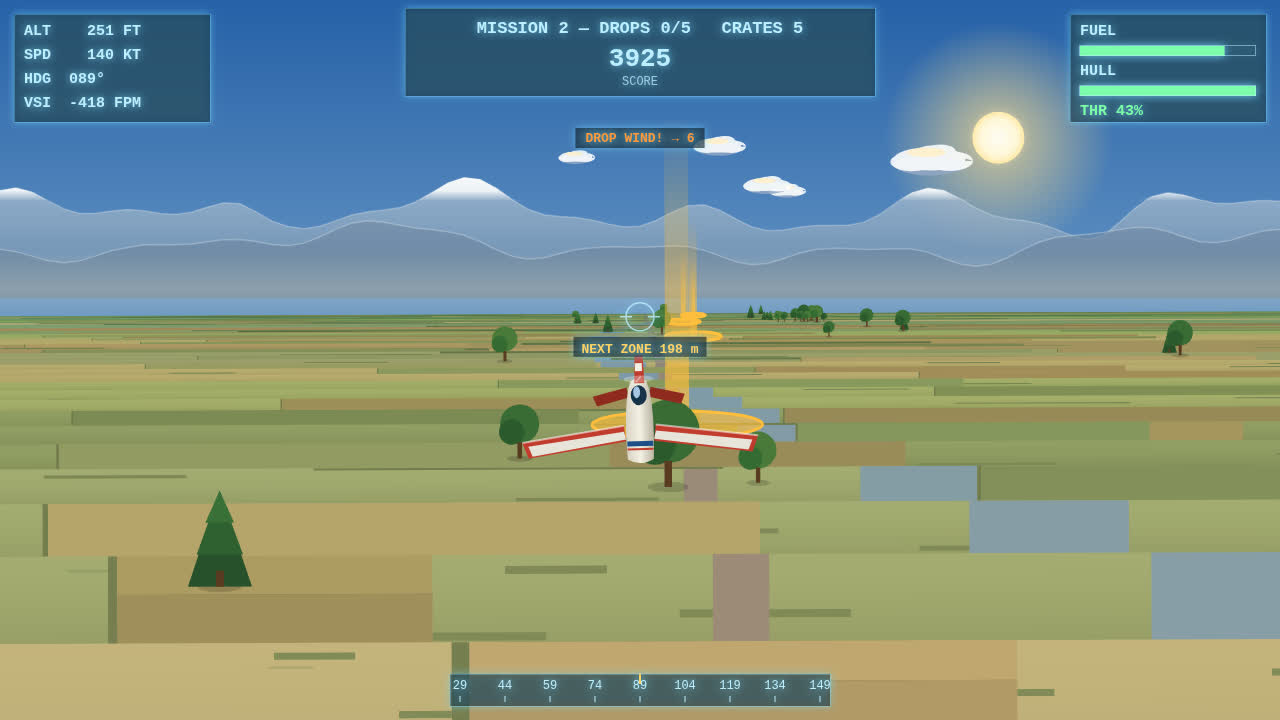
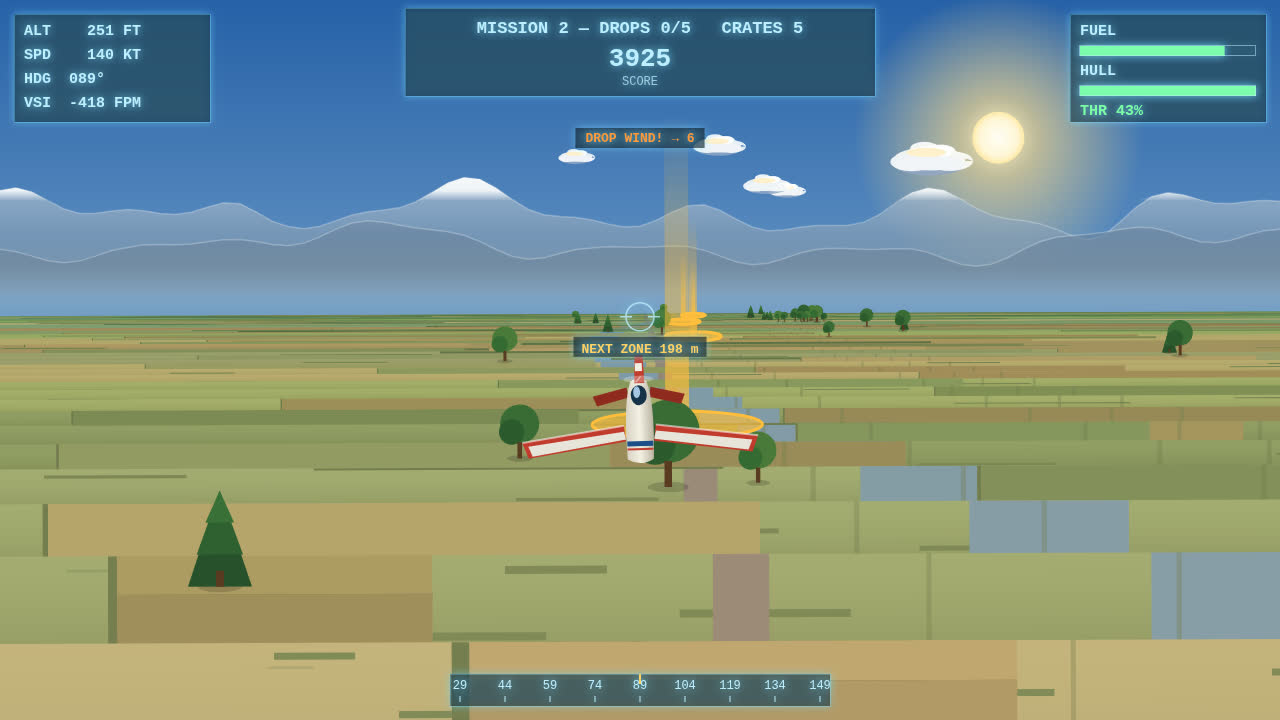
Sky Courier round 11: horizon melts instead of striping, field boundaries break the foreground slabs, domed clouds, stronger sun, bigger wingman
- Mountains fade to transparent at the base (was a hard horizontal edge
  at horizonY+2) and the haze veil is wider/softer (peak 0.28 -> 0.20):
  the pale stripe across every day shot now reads as atmosphere.
- Field-boundary hedgerows run ALONG the track in world space (x -110/
  -70/10/45/75), converging with perspective — the first vertical
  structure after ten rounds of horizontal texture. Drawn after the
  patchwork so the fields don't cover them (first version drew them
  before and the 2x crop showed only faint verticals); verified with
  2x crops of the play/drop foregrounds.
- Clouds get a second dome puff on top plus a stronger warm top edge.
- Sun glow radius 115 -> 145 (130 -> 155 dusk), mid-stop alpha up.
- Wingman 0.36 -> 0.42 scale, d 100 -> 88 m: reads as a plane in
  formation now, not a red cross.
Render-only; staged playtests unchanged 7551-7976 across 20 seeds.

Changed region(s): [[0.6562, 0.0, 0.875, 0.3361]]

diff --git a/game/src/render.js b/game/src/render.js
@@ -74,14 +74,16 @@ export function createRenderer(canvas) {
     ctx.fillStyle = g;
     ctx.fillRect(0, 0, w, h);
     // Sun with a soft glow, upper right — lower and warmer at dusk.
+    // Bigger and warmer than round 7's: the old glow was so subtle the
+    // disc still read as a flat pale sticker on the sky.
     const sx = w * 0.78;
     const sy = horizonY - h * (dusk ? 0.09 : 0.22);
-    const glow = ctx.createRadialGradient(sx, sy, 4, sx, sy, dusk ? 130 : 115);
+    const glow = ctx.createRadialGradient(sx, sy, 4, sx, sy, dusk ? 155 : 145);
     glow.addColorStop(0, dusk ? 'rgba(255,214,150,0.95)' : 'rgba(255,244,200,0.95)');
-    glow.addColorStop(0.25, dusk ? 'rgba(255,170,90,0.6)' : 'rgba(255,220,140,0.55)');
+    glow.addColorStop(0.25, dusk ? 'rgba(255,170,90,0.68)' : 'rgba(255,220,140,0.65)');
     glow.addColorStop(1, dusk ? 'rgba(255,170,90,0)' : 'rgba(255,220,140,0)');
     ctx.fillStyle = glow;
-    ctx.fillRect(sx - 135, sy - 135, 270, 270);
+    ctx.fillRect(sx - 160, sy - 160, 320, 320);
     // The disc itself is a radial gradient, bright in the middle and
     // warm at the rim — a flat disc read as a pale sticker on the sky.
     const disc = ctx.createRadialGradient(sx, sy, 2, sx, sy, dusk ? 28 : 26);
@@ -114,24 +116,30 @@ export function createRenderer(canvas) {
     // A vertical gradient (light crest, darker base) gives the range
     // volume instead of one flat fill.
     const mg = ctx.createLinearGradient(0, horizonY - 120, 0, horizonY + 2);
+    // The ridge base fades to transparent instead of ending in a hard
+    // horizontal line at horizonY+2: the old solid base plus the haze
+    // veil read as one flat pale stripe across the whole frame at the
+    // horizon (visible in every day shot). Now the range melts into
+    // the atmosphere instead of sitting on a ledge.
+    const fade = (c) => `rgba(${c[0]},${c[1]},${c[2]},0)`;
     if (dusk) {
-      // At dusk the ridge is a dark silhouette against the orange
-      // horizon, not a pale blue wave: the day-lit colours wash out
-      // against the violet sky (the land shot's ridge read as a pale
-      // curtain, not mountains).
       if (layer === 0) {
         mg.addColorStop(0, 'rgba(108,96,150,0.85)');
-        mg.addColorStop(1, 'rgba(74,64,116,0.7)');
+        mg.addColorStop(0.75, 'rgba(74,64,116,0.7)');
+        mg.addColorStop(1, fade([74, 64, 116]));
       } else {
         mg.addColorStop(0, 'rgba(88,78,128,0.8)');
-        mg.addColorStop(1, 'rgba(62,54,100,0.68)');
+        mg.addColorStop(0.75, 'rgba(62,54,100,0.68)');
+        mg.addColorStop(1, fade([62, 54, 100]));
       }
     } else if (layer === 0) {
       mg.addColorStop(0, 'rgba(172,192,214,0.8)');
-      mg.addColorStop(1, 'rgba(110,136,162,0.62)');
+      mg.addColorStop(0.75, 'rgba(110,136,162,0.62)');
+      mg.addColorStop(1, fade([110, 136, 162]));
     } else {
       mg.addColorStop(0, 'rgba(126,150,176,0.72)');
-      mg.addColorStop(1, 'rgba(96,122,150,0.6)');
+      mg.addColorStop(0.75, 'rgba(96,122,150,0.6)');
+      mg.addColorStop(1, fade([96, 122, 150]));
     }
     ctx.fillStyle = mg;
     // Sample the ridge first so snow caps can sit on its peaks.
@@ -206,12 +214,16 @@ export function createRenderer(canvas) {
   function drawHaze(w, horizonY) {
     // A soft pale veil straddling the horizon: it melts the hard line
     // where flat ground meets sky and gives the far world atmosphere.
-    const g = ctx.createLinearGradient(0, horizonY - 46, 0, horizonY + 26);
+    // Wider and softer than round 3's: the old 72 px veil with a 0.28
+    // peak read as its own pale stripe across the frame (every day
+    // shot showed a flat band at the horizon). A broader, gentler
+    // veil melts instead of striping.
+    const g = ctx.createLinearGradient(0, horizonY - 60, 0, horizonY + 40);
     g.addColorStop(0, 'rgba(246,232,200,0)');
-    g.addColorStop(0.55, 'rgba(246,232,200,0.28)');
+    g.addColorStop(0.55, 'rgba(246,232,200,0.2)');
     g.addColorStop(1, 'rgba(246,232,200,0)');
     ctx.fillStyle = g;
-    ctx.fillRect(0, horizonY - 46, w, 72);
+    ctx.fillRect(0, horizonY - 60, w, 100);
   }
 
   function drawClouds(w, horizonY, camZ, camX, clouds, camDepth) {
@@ -242,8 +254,16 @@ export function createRenderer(canvas) {
       ctx.ellipse(sx + s * 0.1, sy - s * 0.14, s * 0.55, s * 0.24, 0, 0, Math.PI * 2);
       ctx.ellipse(sx + s * 0.3, sy - s * 0.2, s * 0.42, s * 0.2, 0, 0, Math.PI * 2);
       ctx.fill();
+      // A second dome stacked on top: the old single dome plus shaded
+      // base read as one flat white ellipse from most angles — a puff
+      // needs a bump on top to read as a volume.
+      ctx.fillStyle = 'rgba(255,255,255,0.9)';
+      ctx.beginPath();
+      ctx.ellipse(sx - s * 0.15, sy - s * 0.28, s * 0.4, s * 0.2, 0, 0, Math.PI * 2);
+      ctx.ellipse(sx + s * 0.35, sy - s * 0.22, s * 0.3, s * 0.16, 0, 0, Math.PI * 2);
+      ctx.fill();
       // Warm sunlit top edge, so the lit side reads.
-      ctx.fillStyle = 'rgba(255,238,200,0.85)';
+      ctx.fillStyle = 'rgba(255,238,200,0.9)';
       ctx.beginPath();
       ctx.ellipse(sx - s * 0.1, sy - s * 0.18, s * 0.55, s * 0.13, 0, 0, Math.PI * 2);
       ctx.fill();
@@ -559,7 +579,7 @@ export function createRenderer(canvas) {
     const fadeOut = clamp((WINGMAN_Z1 - z) / 300, 0, 1);
     const peel = clamp((z - 1900) / 300, 0, 1);
     return {
-      d: 100, // metres ahead of the camera, in formation — close enough
+      d: 88, // metres ahead of the camera, in formation — close enough
       // to read as a formation partner, not a speck at the frame edge
       x: state.x + 50 + peel * 130,
       alt: state.alt + 12 - peel * 40,
@@ -723,6 +743,27 @@ export function createRenderer(canvas) {
             // Hedgerow along the patch's left edge.
             ctx.fillStyle = mix3([42, 82, 46], SKY_HORIZON, haze * 0.7);
             ctx.fillRect(px, topY, Math.max(1, bandH * 0.1), bandH);
+          }
+        }
+        // Field boundaries running ALONG the track, drawn AFTER the
+        // patchwork so they read over the fields, not under them: ten
+        // rounds of horizontal texture (furrows, speckle, patchwork,
+        // splits) dressed the bands, but every mark ran across the
+        // frame, so the foreground still read as stacked horizontal
+        // slabs. These hedgerows are fixed in world space, so they
+        // converge with perspective — vertical structure that breaks
+        // the slabs and gives the near ground a sense of depth. The
+        // first version drew them before the patchwork and the patches
+        // covered them; the 2x crop showed only faint verticals.
+        if (!onRunway && !crossRoad) {
+          for (const bx of [-110, -70, 10, 45, 75]) {
+            const hx2 = w / 2 + (camDepth * (bx - camX)) / d;
+            const hw = Math.min(5, Math.max(1.5, (camDepth * 1.5) / d));
+            if (hx2 + hw < -20 || hx2 - hw > w + 20) continue;
+            ctx.fillStyle = mix3([42, 82, 46], SKY_HORIZON, haze * 0.7);
+            ctx.globalAlpha = 0.35;
+            ctx.fillRect(hx2 - hw / 2, topY, hw, bandH);
+            ctx.globalAlpha = 1;
           }
         }
         // Airfield grass: mowing stripes in world space — every other
@@ -1235,9 +1276,9 @@ export function createRenderer(canvas) {
         ctx.globalAlpha = wm.alpha;
         ctx.translate(sx, sy);
         ctx.rotate(wm.roll);
-        // A touch bigger than round 7: at 0.3 she read as a red cross,
-        // not a plane, in the play shot.
-        const ws = 0.36 * (Math.min(w, h) / 720);
+        // A touch bigger again: at 0.36 she still read as a small red
+        // cross in the play shot, not a plane in formation.
+        const ws = 0.42 * (Math.min(w, h) / 720);
         ctx.scale(ws, ws);
         ctx.fillStyle = '#c23b2e';
         ctx.beginPath();
